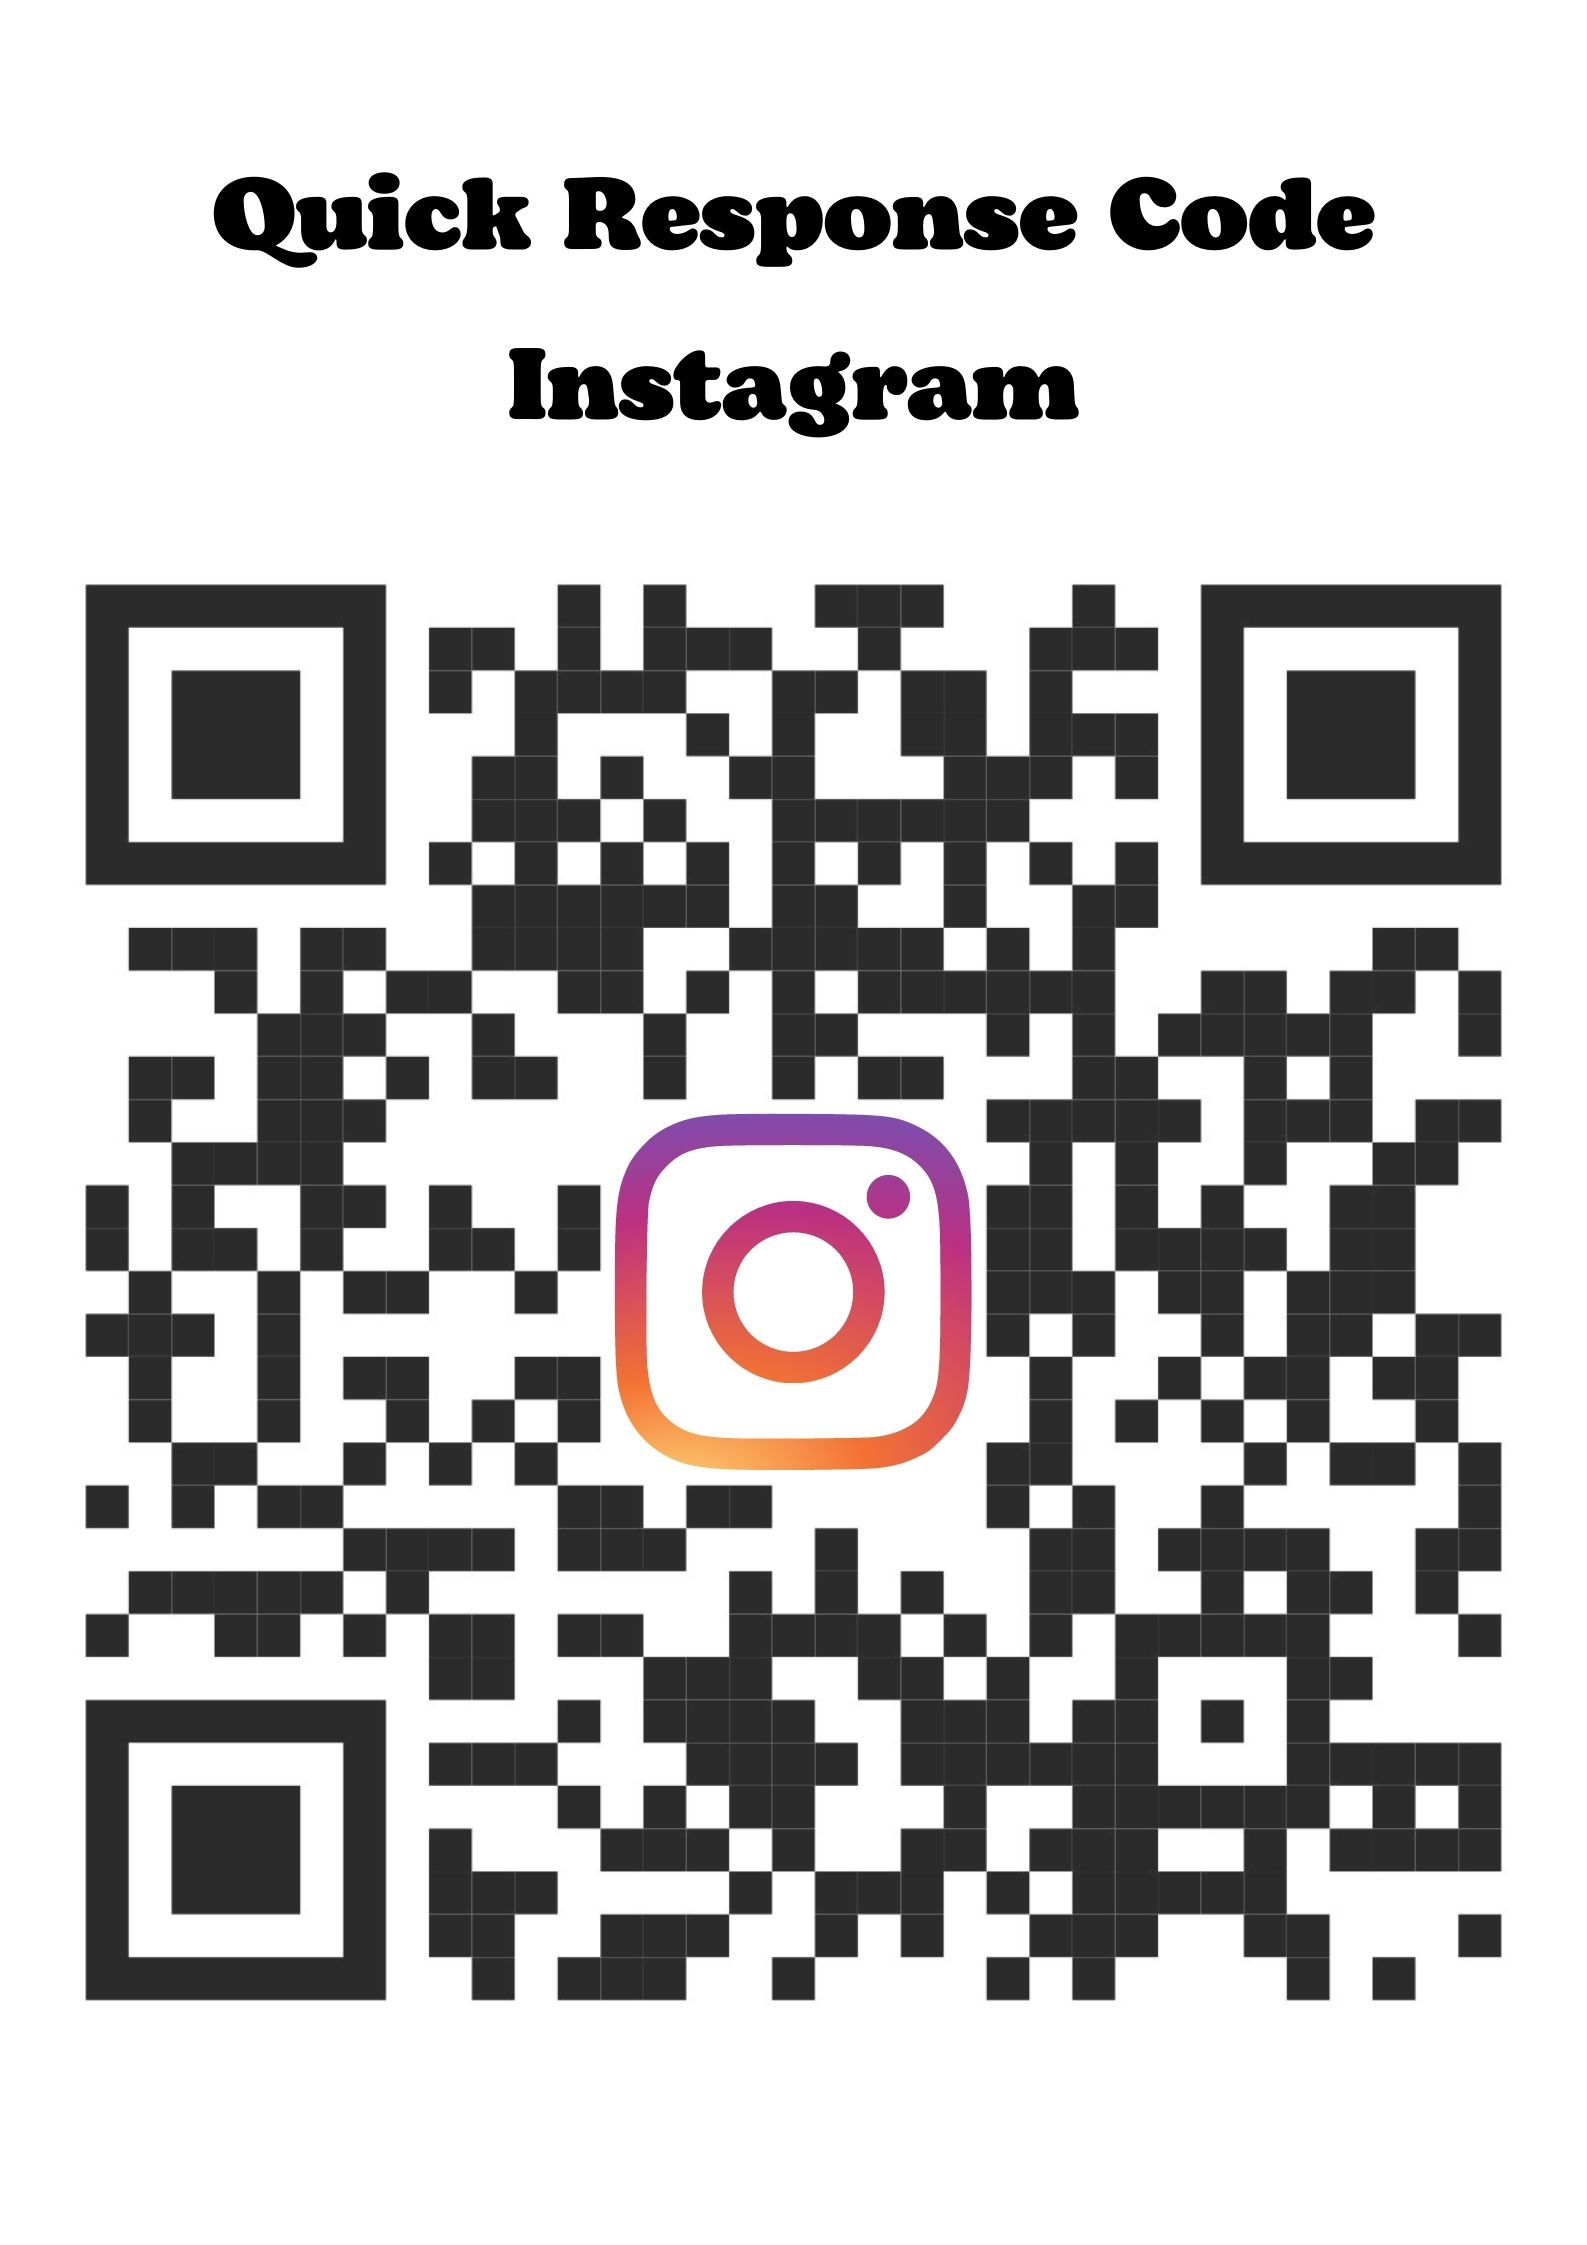
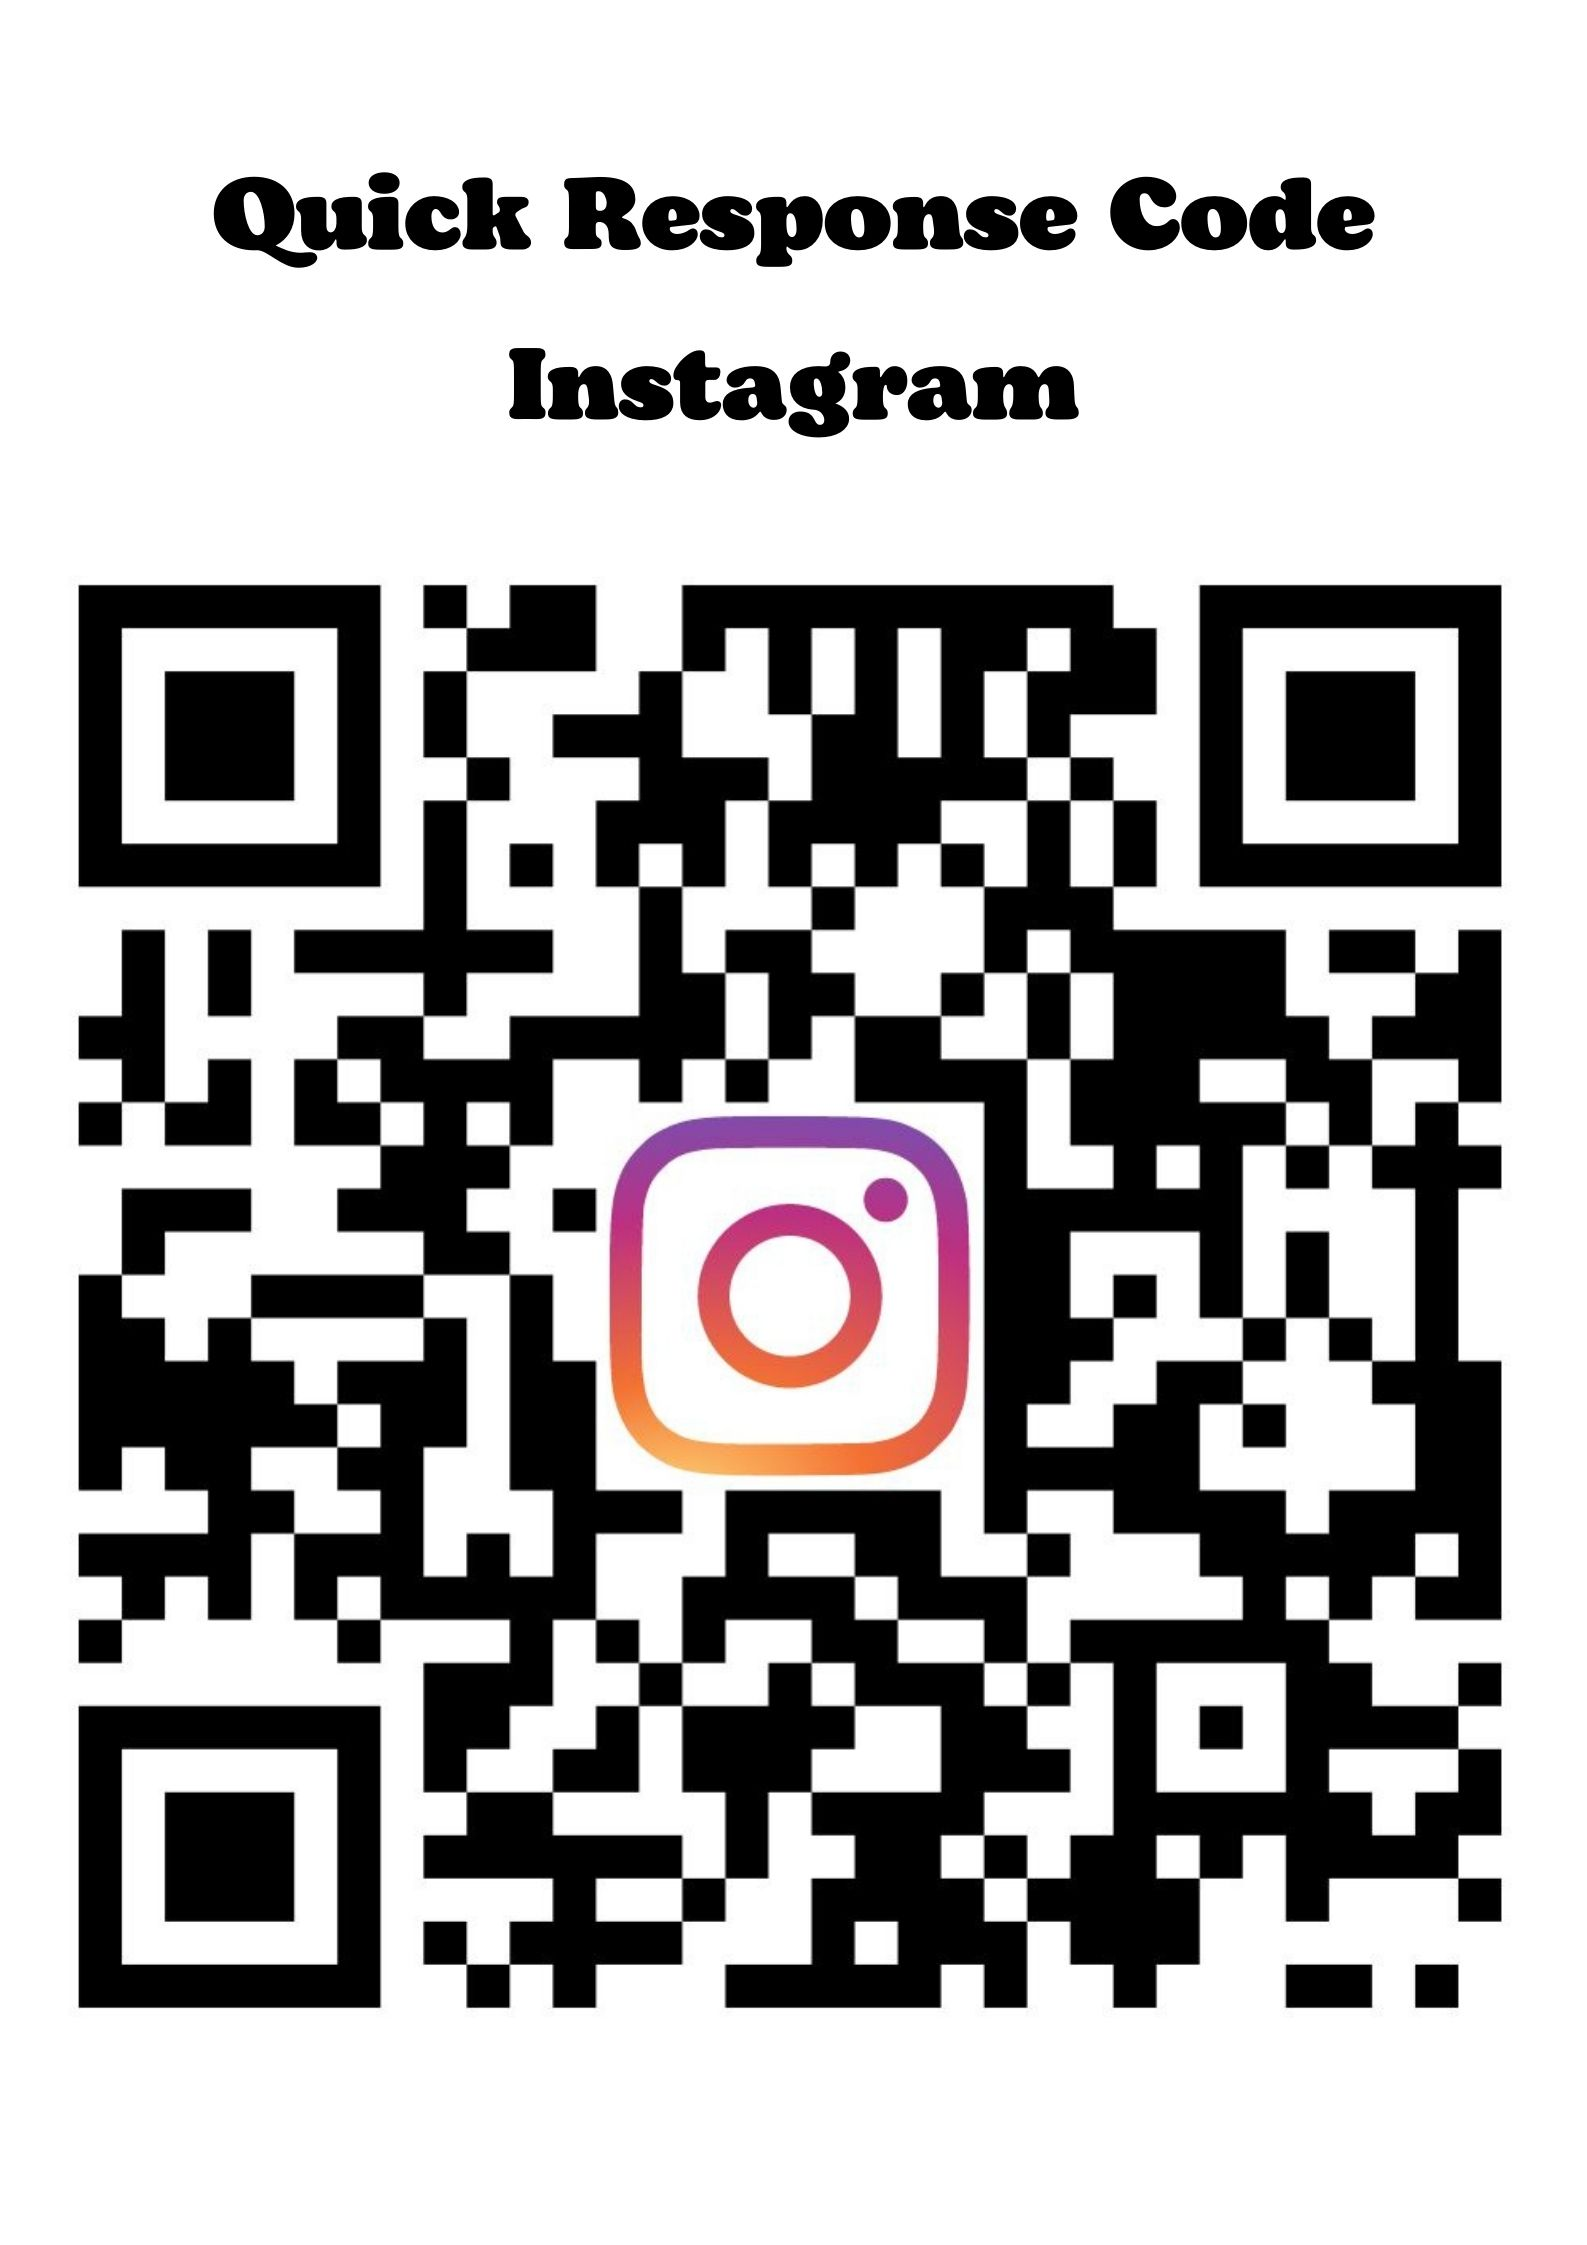
replaced Poster and IgQR

diff --git a/index.html b/index.html
@@ -18,6 +18,8 @@
 <body>
 
     <main>
+
+        <!-- Layer -->
         <div class="grp-image">
             <div class="images">
                 <img src="public/Posters.jpg" data-aos="fade-down" data-aos-duration="600" alt="Poster">
@@ -25,12 +27,15 @@
                 <img src="public/WebsiteQR.jpg" data-aos="fade-down" data-aos-duration="1000" alt="QRCODE">
             </div>
         </div>
+
     </main>
 
     <script src="https://unpkg.com/aos@next/dist/aos.js"></script>
+
     <script>
         AOS.init();
     </script>
+
 </body>
 
 </html>

diff --git a/style.css b/style.css
@@ -7,6 +7,7 @@
 body {
   background-color: #0e0e35;
 }
+
 .grp-image {
   display: flex;
 }
@@ -30,7 +31,7 @@ img {
   height: 100%;
   width: 100%;
   padding: 20px;
-  border-radius: 32px;
+  border-radius: 42px;
   box-shadow: 0px 1px 2.2px rgba(0, 0, 0, 0.02),
     0px 2.5px 5.3px rgba(0, 0, 0, 0.028), 0px 4.6px 10px rgba(0, 0, 0, 0.035),
     0px 8.3px 17.9px rgba(0, 0, 0, 0.042), 0px 15.5px 33.4px rgba(0, 0, 0, 0.05),
